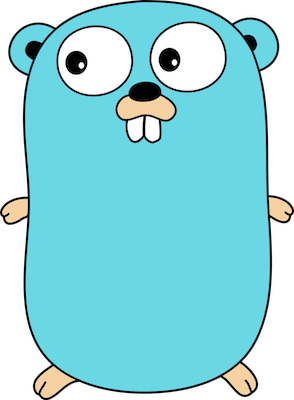
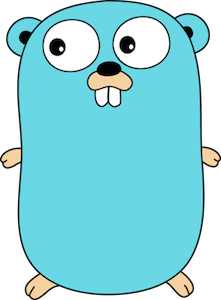
Resize images. Remove unused scripts.

diff --git a/index.html b/index.html
@@ -28,38 +28,28 @@
           <h1 class="title">
             <span class="title-subdomain"></span><span class="title-text">.stats.show()</span>
           </h1>
-          <h2 class="description">
-            Compare GitHub projects and choose easier.
-          </h2>
+          <h2 class="description">Compare GitHub projects and choose easier.</h2>
         </div>
       </div>
-      <h3 class="">
-        Please, select your language/platform:
-      </h3>
+      <h3 class="list-title">Please, select your language/platform:</h3>
       <div class="list">
         <a class="list-item" href="//js.stats.show">
           <div class="list-item-image-container">
             <img class="list-item-image" src="static/media/js.png"/>
           </div>
-          <h2 class="list-item-title">
-            JavaScript
-          </h2>
+          <h2 class="list-item-title">JavaScript</h2>
         </a>
         <a class="list-item" href="//net.stats.show">
           <div class="list-item-image-container">
             <img class="list-item-image" src="static/media/net.png"/>
           </div>
-          <h2 class="list-item-title">
-            .NET
-          </h2>
+          <h2 class="list-item-title">.NET</h2>
         </a>
         <a class="list-item" href="//go.stats.show">
           <div class="list-item-image-container">
             <img class="list-item-image" src="static/media/go.png"/>
           </div>
-          <h2 class="list-item-title">
-            Go
-          </h2>
+          <h2 class="list-item-title">Go</h2>
         </a>
       </div>
     </div>
@@ -68,7 +58,5 @@
       crossorigin="anonymous"></script>
     <script async defer src="/static/js/vendor/typed.min.js"></script>
     <script async defer src="/static/js/main.js"></script>
-    <script async defer src="//buttons.github.io/buttons.js"></script>
-    <script async src="//platform.twitter.com/widgets.js" charset="utf-8"></script>
   </body>
 </html>
